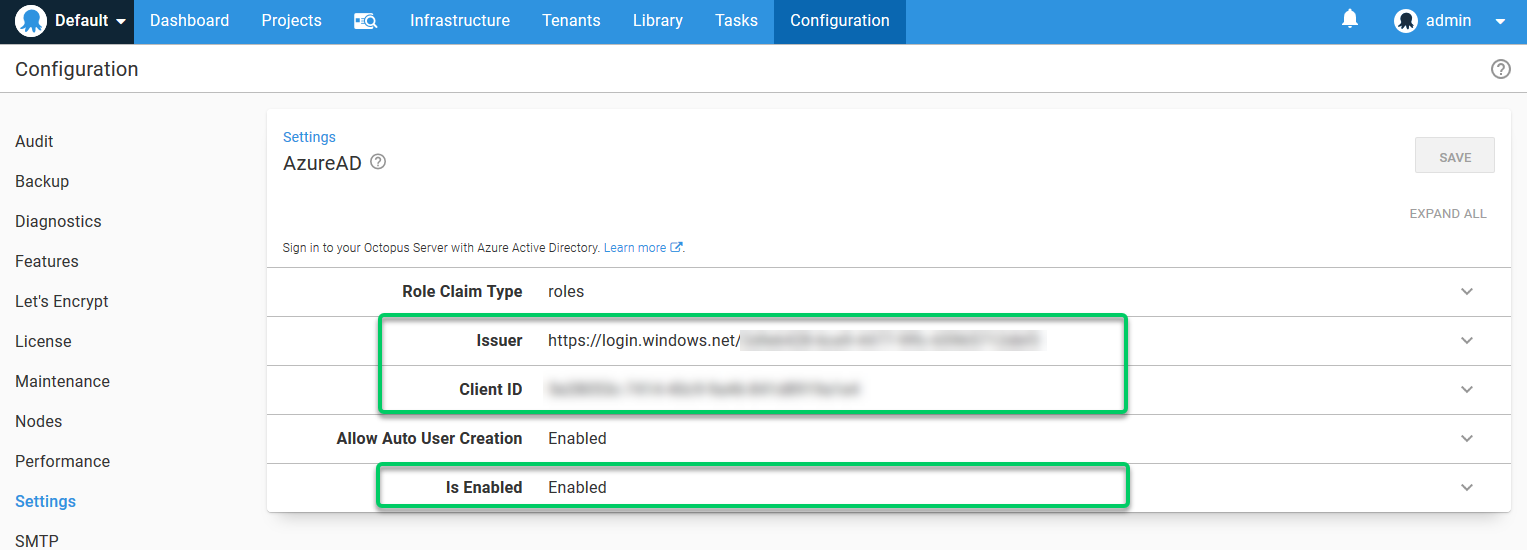
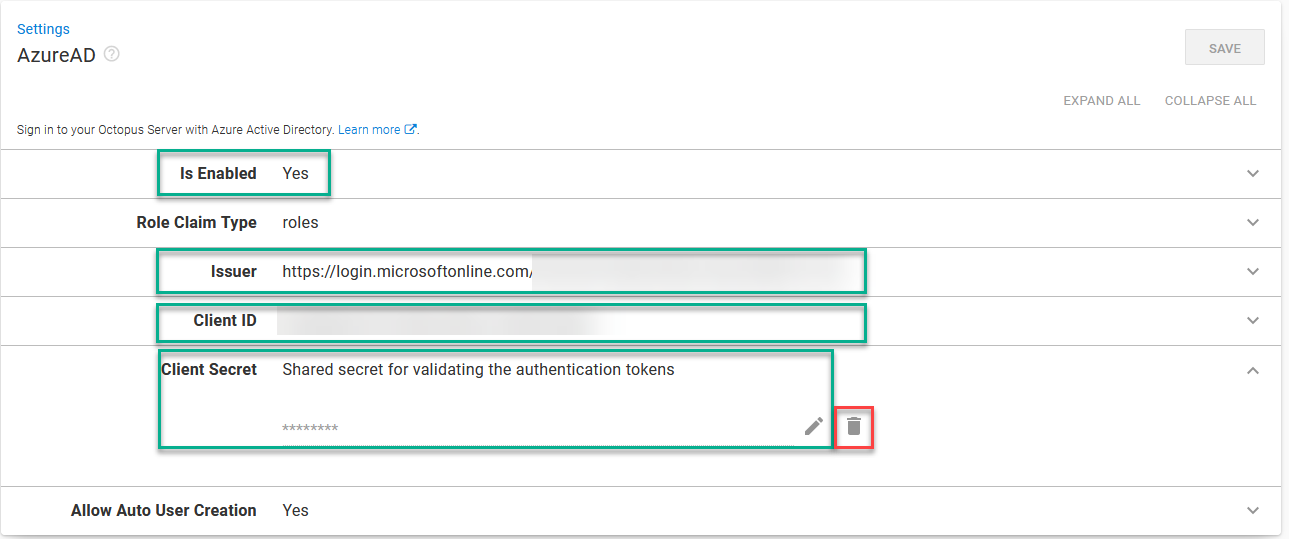
Adding a screenshot that has the clientsecret field as well as pointing out the delete button as its the only way to currently get rid of the clientsecret

diff --git a/docs/security/authentication/azure-ad-authentication.md b/docs/security/authentication/azure-ad-authentication.md
@@ -191,7 +191,7 @@ Octopus.Server.exe configure --azureADIsEnabled=true --azureADIssuer=Issuer --az
 # Octopus.Server.exe configure --azureADIsEnabled=true --azureADIssuer=https://login.microsoftonline.com/12341234-xxxx-xxxx-xxxx-xxxxxxxxxxxx --azureADClientId=43214321-xxxx-xxxx-xxxx-xxxxxxxxxxxx --azureADClientSecret=bCeXXXXXXXXXXXXXXXXXXXXXXXXXXXXXXXXXX
 ```
 
-Alternatively, these settings can be defined through the user interface by selecting **{{Configuration,Settings,Azure AD}}** and populating the fields **Issuer**, **ClientId**, **ClientSecret**, and **IsEnabled**.
+Alternatively, these settings can be defined through the user interface by selecting **{{Configuration,Settings,Azure AD}}** and populating the fields **Issuer**, **ClientId**, **ClientSecret**, and **IsEnabled**. If you want to remove the ClientSecret you can use the delete button shown in the screenshot.
 
 ![Settings](images/aad-azure-ad-settings.png "width=500")
 
